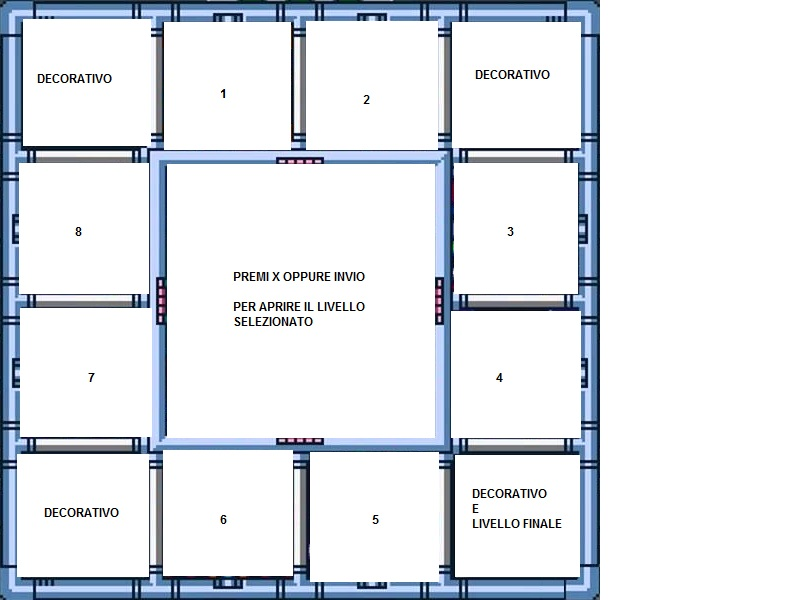
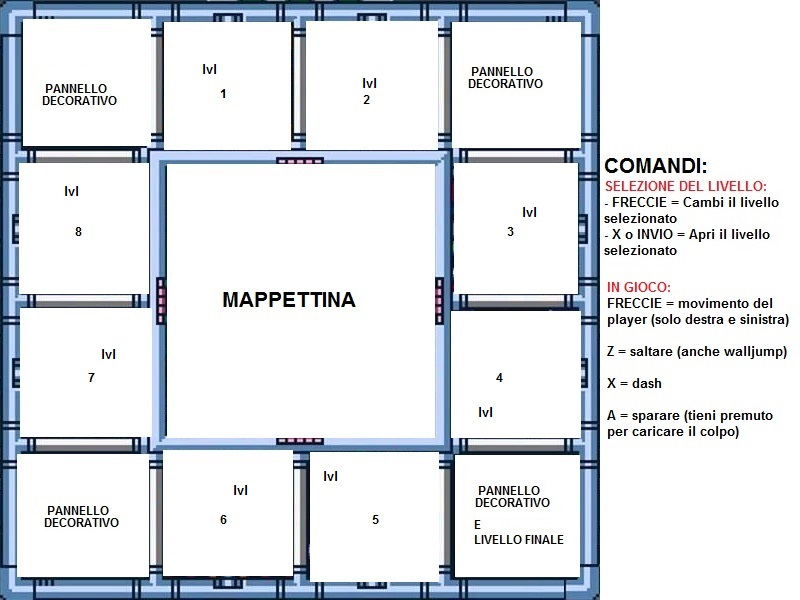
Add files via upload

diff --git a/simpleX.js b/simpleX.js
@@ -12,7 +12,8 @@
             }
           }
       }
-      if (scala < 1){alert("Your screen is too small... Try to zoom out your browser page a little (Usually Ctrl and -)");}
+//      if (scala < 1){alert("Your screen is too small... Try to zoom out your browser page a little (Usually Ctrl and -)");}
+      if (scala < 1){scala=1;}
       var canvasWidth = widthRes*scala;
       var canvasHeight = heightRes*scala;
       if(document.getElementsByTagName('canvas').length == 0) {     //crea il canvas con le variabili che ho creato
@@ -20,7 +21,8 @@
       }   var ctx = document.getElementById('canvas').getContext('2d');
            
 	  //variabili dei tasti
-      var keys = [];
+      var keys = [];            //vettore tasti
+      var tastoGiaSchiacciato = false; //mi serve per alcune funzioni tipo selectScreen()
       var jumpkey = 90;         //salta - default z
       var destrakey = 39;       //muovi sinistra - default freccia destra
       var sinistrakey = 37;     //muovi destra - default freccia sinistra
@@ -57,7 +59,7 @@
         this.charge2color= '#14dfff';        
         this.speed= 0.9*scala;
         this.defaultspeed= 0.9*scala;
-        this.jumpheight= 10.5*scala;
+        this.jumpheight= 11.5*scala;
         this.giasaltato = false;
         this.giasparato = false;
         this.facingRight = true;
@@ -68,25 +70,25 @@
 
 			//caricare il livello
 			var level = []; //create the level array
-			var lvlNumber=0;
+			var lvlNumber=1;
       var stageSelection=true;			
 
       		//prendo lvlNumber e carico il livello scelto - sadly non ancora da file perchè siamo a corto di budget
 			function leggiLivelloDaFile() {	//funz che carica il livello scelto - i livello sono salvati come stringhe
 				switch (lvlNumber) {
-					case 0: stringToLevel("tttttttttttttttttttttttttttttttttttttttttttttttttttl..................................................l..................................................l..................................................l..................................................l......................................P...........l..................................................l..................................................l..................................................l..................................................l..................................................l..................................................l..................................................l..................................................l..................................................l..................................................l..................................................l..................................................l..................................................l..................................................l..................................................l..................................................l..................................................l..................................................l..................................................l..................................................l..............................P...................l....................................P.............l..................................................f");
+					case 1: stringToLevel("tttttttttttttttttttttttttttttttttttttttttttttttttttl..................................................l..................................................l..................................................l..................................................l......................................P...........l..................................................l..................................................l..................................................l..................................................l..................................................l..................................................l..................................................l..................................................l..................................................l..................................................l..................................................l..................................................l..................................................l..................................................l..................................................l..................................................l..................................................l..................................................l..................................................l..................................................l..............................P...................l....................................P.............l..................................................f");
 					break;
 
-					case 1: stringToLevel("tttttttttttttttttttttttttttttttttttttttttttttttttttttttttttl..........................................................l..........................................................l..bbbbbbb.................................................l..........................................................l..........................................................l..........................................................l..........................................................l..........................................................l..........................................................l..........................................................l..........................................................l..........................................................l..........................................................l..........................................................l..........................................................l..........................................................l..........................................................l..........................................................l..........................................................l..........................................................l..................................bbbbbbbbbb..............l..........................................................l..........................................................l..........................................................l..........................................................l....................bb....................................l................bb........................................l............bb............................................l........bb................................................l....bb....................................................f");
+					case 2: stringToLevel("tttttttttttttttttttttttttttttttttttttttttttttttttttttttttttl..........................................................l..........................................................l..bbbbbbb.................................................l..........................................................l..........................................................l..........................................................l..........................................................l..........................................................l..........................................................l..........................................................l..........................................................l..........................................................l..........................................................l..........................................................l..........................................................l..........................................................l..........................................................l..........................................................l..........................................................l..........................................................l..................................bbbbbbbbbb..............l..........................................................l..........................................................l..........................................................l..........................................................l....................bb....................................l................bb........................................l............bb............................................l........bb................................................l....bb....................................................f");
 					break;
 
-					case 2: stringToLevel("ttttttttttttttttttttttttttttttttttttttttttttttttttttttttttttttttttttttttttttttttttttttttttttttttttttttttttttttttttttttttttttttttttttttttttttttttttttttttttttttttttttttttttttttttttttttttttttttttttttttttttttttttttttl...................................................................................................................................................................................................................l...................................................................................................................................................................................................................l...b...b.bbb.bbb.b.bbb...bbb.bbb.bbb.bbb...b...b.bbb.bbb...bbb...b.....bbb...b.....................................................................................................................................l...bb.bb.b.b.b.b.b.b.b...b.b.b.b.b.b.b.....bb..b.b...b.....b.b..bb.....b.b..bb.....................................................................................................................................l...b.b.b.bbb.bbb.b.b.b...bb..bbb.b.b.bbb...b.b.b.bbb.bbb...b.b.b.b.b.b.b.b.b.b.....................................................................................................................................l...b...b.b.b.bb..b.b.b...b.b.bb..b.b...b...b..bb.b.....b...b.b...b..b..b.b...b.....................................................................................................................................l...b...b.b.b.b.b.b.bbb...bbb.b.b.bbb.bbb...b...b.bbb.bbb...bbb...b.b.b.bbb...b.....................................................................................................................................l...................................................................................................................................................................................................................l...................................................................................................................................................................................................................l...................................................................................................................................................................................................................l.........................................................................................................................................................................................................b.........l.........................................................................................................................................................................................................b.........l.........................................................................................................................................................................................................b.........l................................................................................................................................................................................................bb.......b.........l...............................................................................................................................................................................................bbb.......b.........l......................b.........................................................bbbbbbbb...bbbb................b............bbb....bbbb.......................................................bbbb.......b.........l.............................................................................................................................................................................................bbbbb.......b...b.b.b.l..............................................bb.........bb.................................................................................b..b..........bb..b.............................bbbbbb.......b...bbbbb.l...............b....bbbbb.............bb......bb.........bb..................bbb..............b......bb.....b..b..b.....b...........bb.....bb..bb........bbb..bb...........bbbb............bbbbbbb.......b...bbbbb.l............................bb........bb......bb.........bb...............................................................................bbb..bbb......bbbb..bbb.....bb..............bb..bbbbbbbb.......b...bb.bb.l............................bb........bb......bb.........bb..............................................................................bbbb..bbbb....bbbbb..bbbb....bb..............bb.bbbbbbbbb......bbb..bb.bb.lbbbbbbbbbbbbbbbbbbbbbbbbbbbbbbbbbbbbbbbbbbbbbbbbbbbbbbbbbbbbbbbbbbbbb..bbbbbbbbbbbbbbb...bbbbbbbbbbbbbbbbbbbbbbbbbbbbbbbbbbbbbbbbbbbbbbbbbbbbbbbbbbbbbbbbbbb..bbbbbbbbbbbbbbbbbbbbbbbbbbbbbbbbbbbbbbbbbbbbbbbbbbbbblbbbbbbbbbbbbbbbbbbbbbbbbbbbbbbbbbbbbbbbbbbbbbbbbbbbbbbbbbbbbbbbbbbbbb..bbbbbbbbbbbbbbb...bbbbbbbbbbbbbbbbbbbbbbbbbbbbbbbbbbbbbbbbbbbbbbbbbbbbbbbbbbbbbbbbbbb..bbbbbbbbbbbbbbbbbbbbbbbbbbbbbbbbbbbbbbbbbbbbbbbbbbbbblbbbbbbbbbbbbbbbbbbbbbbbbbbbbbbbbbbbbbbbbbbbbbbbbbbbbbbbbbbbbbbbbbbbbb..bbbbbbbbbbbbbbb...bbbbbbbbbbbbbbbbbbbbbbbbbbbbbbbbbbbbbbbbbbbbbbbbbbbbbbbbbbbbbbbbbbb..bbbbbbbbbbbbbbbbbbbbbbbbbbbbbbbbbbbbbbbbbbbbbbbbbbbbblbbbbbbbbbbbbbbbbbbbbbbbbbbbbbbbbbbbbbbbbbbbbbbbbbbbbbbbbbbbbbbbbbbbbb..bbbbbbbbbbbbbbb...bbbbbbbbbbbbbbbbbbbbbbbbbbbbbbbbbbbbbbbbbbbbbbbbbbbbbbbbbbbbbbbbbbb..bbbbbbbbbbbbbbbbbbbbbbbbbbbbbbbbbbbbbbbbbbbbbbbbbbbbblbbbbbbbbbbbbbbbbbbbbbbbbbbbbbbbbbbbbbbbbbbbbbbbbbbbbbbbbbbbbbbbbbbbbb..bbbbbbbbbbbbbbb...bbbbbbbbbbbbbbbbbbbbbbbbbbbbbbbbbbbbbbbbbbbbbbbbbbbbbbbbbbbbbbbbbbb..bbbbbbbbbbbbbbbbbbbbbbbbbbbbbbbbbbbbbbbbbbbbbbbbbbbbblbbbbbbbbbbbbbbbbbbbbbbbbbbbbbbbbbbbbbbbbbbbbbbbbbbbbbbbbbbbbbbbbbbbbb..bbbbbbbbbbbbbbb...bbbbbbbbbbbbbbbbbbbbbbbbbbbbbbbbbbbbbbbbbbbbbbbbbbbbbbbbbbbbbbbbbbb..bbbbbbbbbbbbbbbbbbbbbbbbbbbbbbbbbbbbbbbbbbbbbbbbbbbbblbbbbbbbbbbbbbbbbbbbbbbbbbbbbbbbbbbbbbbbbbbbbbbbbbbbbbbbbbbbbbbbbbbbbb..bbbbbbbbbbbbbbb...bbbbbbbbbbbbbbbbbbbbbbbbbbbbbbbbbbbbbbbbbbbbbbbbbbbbbbbbbbbbbbbbbbb..bbbbbbbbbbbbbbbbbbbbbbbbbbbbbbbbbbbbbbbbbbbbbbbbbbbbbf");
+					case 3: stringToLevel("ttttttttttttttttttttttttttttttttttttttttttttttttttttttttttttttttttttttttttttttttttttttttttttttttttttttttttttttttttttttttttttttttttttttttttttttttttttttttttttttttttttttttttttttttttttttttttttttttttttttttttttttttttttl...................................................................................................................................................................................................................l...................................................................................................................................................................................................................l...b...b.bbb.bbb.b.bbb...bbb.bbb.bbb.bbb...b...b.bbb.bbb...bbb...b.....bbb...b.....................................................................................................................................l...bb.bb.b.b.b.b.b.b.b...b.b.b.b.b.b.b.....bb..b.b...b.....b.b..bb.....b.b..bb.....................................................................................................................................l...b.b.b.bbb.bbb.b.b.b...bb..bbb.b.b.bbb...b.b.b.bbb.bbb...b.b.b.b.b.b.b.b.b.b.....................................................................................................................................l...b...b.b.b.bb..b.b.b...b.b.bb..b.b...b...b..bb.b.....b...b.b...b..b..b.b...b.....................................................................................................................................l...b...b.b.b.b.b.b.bbb...bbb.b.b.bbb.bbb...b...b.bbb.bbb...bbb...b.b.b.bbb...b.....................................................................................................................................l...................................................................................................................................................................................................................l...................................................................................................................................................................................................................l...................................................................................................................................................................................................................l.........................................................................................................................................................................................................b.........l.........................................................................................................................................................................................................b.........l.........................................................................................................................................................................................................b.........l................................................................................................................................................................................................bb.......b.........l...............................................................................................................................................................................................bbb.......b.........l......................b.........................................................bbbbbbbb...bbbb................b............bbb....bbbb.......................................................bbbb.......b.........l.............................................................................................................................................................................................bbbbb.......b...b.b.b.l..............................................bb.........bb.................................................................................b..b..........bb..b.............................bbbbbb.......b...bbbbb.l...............b....bbbbb.............bb......bb.........bb..................bbb..............b......bb.....b..b..b.....b...........bb.....bb..bb........bbb..bb...........bbbb............bbbbbbb.......b...bbbbb.l............................bb........bb......bb.........bb...............................................................................bbb..bbb......bbbb..bbb.....bb..............bb..bbbbbbbb.......b...bb.bb.l............................bb........bb......bb.........bb..............................................................................bbbb..bbbb....bbbbb..bbbb....bb..............bb.bbbbbbbbb......bbb..bb.bb.lbbbbbbbbbbbbbbbbbbbbbbbbbbbbbbbbbbbbbbbbbbbbbbbbbbbbbbbbbbbbbbbbbbbbb..bbbbbbbbbbbbbbb...bbbbbbbbbbbbbbbbbbbbbbbbbbbbbbbbbbbbbbbbbbbbbbbbbbbbbbbbbbbbbbbbbbb..bbbbbbbbbbbbbbbbbbbbbbbbbbbbbbbbbbbbbbbbbbbbbbbbbbbbblbbbbbbbbbbbbbbbbbbbbbbbbbbbbbbbbbbbbbbbbbbbbbbbbbbbbbbbbbbbbbbbbbbbbb..bbbbbbbbbbbbbbb...bbbbbbbbbbbbbbbbbbbbbbbbbbbbbbbbbbbbbbbbbbbbbbbbbbbbbbbbbbbbbbbbbbb..bbbbbbbbbbbbbbbbbbbbbbbbbbbbbbbbbbbbbbbbbbbbbbbbbbbbblbbbbbbbbbbbbbbbbbbbbbbbbbbbbbbbbbbbbbbbbbbbbbbbbbbbbbbbbbbbbbbbbbbbbb..bbbbbbbbbbbbbbb...bbbbbbbbbbbbbbbbbbbbbbbbbbbbbbbbbbbbbbbbbbbbbbbbbbbbbbbbbbbbbbbbbbb..bbbbbbbbbbbbbbbbbbbbbbbbbbbbbbbbbbbbbbbbbbbbbbbbbbbbblbbbbbbbbbbbbbbbbbbbbbbbbbbbbbbbbbbbbbbbbbbbbbbbbbbbbbbbbbbbbbbbbbbbbb..bbbbbbbbbbbbbbb...bbbbbbbbbbbbbbbbbbbbbbbbbbbbbbbbbbbbbbbbbbbbbbbbbbbbbbbbbbbbbbbbbbb..bbbbbbbbbbbbbbbbbbbbbbbbbbbbbbbbbbbbbbbbbbbbbbbbbbbbblbbbbbbbbbbbbbbbbbbbbbbbbbbbbbbbbbbbbbbbbbbbbbbbbbbbbbbbbbbbbbbbbbbbbb..bbbbbbbbbbbbbbb...bbbbbbbbbbbbbbbbbbbbbbbbbbbbbbbbbbbbbbbbbbbbbbbbbbbbbbbbbbbbbbbbbbb..bbbbbbbbbbbbbbbbbbbbbbbbbbbbbbbbbbbbbbbbbbbbbbbbbbbbblbbbbbbbbbbbbbbbbbbbbbbbbbbbbbbbbbbbbbbbbbbbbbbbbbbbbbbbbbbbbbbbbbbbbb..bbbbbbbbbbbbbbb...bbbbbbbbbbbbbbbbbbbbbbbbbbbbbbbbbbbbbbbbbbbbbbbbbbbbbbbbbbbbbbbbbbb..bbbbbbbbbbbbbbbbbbbbbbbbbbbbbbbbbbbbbbbbbbbbbbbbbbbbblbbbbbbbbbbbbbbbbbbbbbbbbbbbbbbbbbbbbbbbbbbbbbbbbbbbbbbbbbbbbbbbbbbbbb..bbbbbbbbbbbbbbb...bbbbbbbbbbbbbbbbbbbbbbbbbbbbbbbbbbbbbbbbbbbbbbbbbbbbbbbbbbbbbbbbbbb..bbbbbbbbbbbbbbbbbbbbbbbbbbbbbbbbbbbbbbbbbbbbbbbbbbbbbf");
 					break;
 										
 					default:
-					alert("Errore nel caricamento del livello - Carico level 0")
-					lvlNumber=0;
-					leggiLivelloDaFile() 
+					alert("Errore nel caricamento del livello - carico il level 1")
+					lvlNumber=1;
+					leggiLivelloDaFile();
 				}
 				return
 			}
@@ -150,7 +152,7 @@
         
         		//qui carico delle cose io ma saranno dati contenuti nei vari livelli, dopo il carattere 'f'        
 				level['gravity'] = 0.62*scala;
-        		level['friction'] = 0.85;
+        level['friction'] = 0.85;
 				level['xStartingPos']=50*scala;
 				level['yStartingPos']=280*scala;
 
@@ -300,7 +302,7 @@
         }              
       }
       
-			//bottone per scegli il livello
+/*
 			const buttonLvl0 = document.createElement('button')
 			buttonLvl0.innerText = 'level--'
 			buttonLvl0.addEventListener('click', () => {
@@ -315,7 +317,7 @@
 			})
 			document.body.appendChild(buttonLvl0)
 			document.body.appendChild(buttonLvl1)
-			
+*/			
       //start the engine
       window.onload = start;
             
@@ -537,12 +539,12 @@
             player.carica++;
             if (player.carica > 100){ //disegna i pallini del colore della carica intorno al player
               var xdisegnata=xDisegnata(); var ydisegnata=yDisegnata();
-              var xrandom=((-player.width/4)-4+Math.floor(Math.random() * (player.width/2)))*scala; var yrandom=((-player.height/4)-4+Math.floor(Math.random() * (player.height/2)))*scala;
+              var xrandom=((-player.width/4)+Math.floor(Math.random() * (player.width/2)))*3; var yrandom=((-player.height/4)+Math.floor(Math.random() * (player.height/2)))*2;
               ctx.fillStyle = player.charge0color;
         	  ctx.fillRect(xdisegnata+(player.width/2)+xrandom, ydisegnata+(player.height/2)+yrandom, 8*scala, 8*scala);
             }else if(player.carica > 25){
               var xdisegnata=xDisegnata(); var ydisegnata=yDisegnata();
-              var xrandom=((-player.width/4)-4+Math.floor(Math.random() * (player.width/2)))*scala; var yrandom=((-player.height/4)-4+Math.floor(Math.random() * (player.height/2)))*scala;
+              var xrandom=((-player.width/4)+Math.floor(Math.random() * (player.width/2)))*3; var yrandom=((-player.height/4)+Math.floor(Math.random() * (player.height/2)))*2;
               ctx.fillStyle = player.charge1color;
         	  ctx.fillRect(xdisegnata+(player.width/2)+xrandom, ydisegnata+(player.height/2)+yrandom, 8*scala, 8*scala);
             }   
@@ -616,14 +618,14 @@
 
         //entity collison
         if (player.invulnerability < 1){
-			for(var i = 0; i < entity.length; i++) {
-				if(entity[i].life > 0 && !(entity[i].type=="sparoDelPlayer")) {
-          			if(collisionBetween(player, entity[i])) {
-						player.color=player.damagedColor;
-						player.life=player.life-entity[i].damage;
-						player.invulnerability=50;
-						break;
-            		}
+			    for(var i = 0; i < entity.length; i++) {
+				    if(entity[i].life > 0 && !(entity[i].type=="sparoDelPlayer")) {
+              if(collisionBetween(player, entity[i])) {
+						    player.color=player.damagedColor;
+						    player.life=player.life-entity[i].damage;
+						    player.invulnerability=50;
+						    break;
+            	}
         		}
         	}
        	}else{
@@ -660,24 +662,104 @@
       function stageSelect(){
           var img = document.getElementById("stageselect");
           ctx.drawImage(img, 0, 0, canvasWidth,canvasHeight);
+            //leggo che tasto viene schiacciato. Con invio o dash si inizia a giocare, con le freccie si cicla tra i livelli
             if (keys[startkey] || keys[dashkey]){
               stageSelection=false;
               nuovoLivello();
             }
-            if (keys[sukey]){
-              showSelectScreenImage(img);
+            if (keys[sukey] && !tastoGiaSchiacciato){
+             if(lvlNumber==4){lvlNumber=3; 
+             }else if(lvlNumber==5){lvlNumber=2;
+             }else if(lvlNumber==6){lvlNumber=1;
+             }else if(lvlNumber==7){lvlNumber=8;
+             }else if(lvlNumber==3){lvlNumber=2;
+             }else if(lvlNumber==8){lvlNumber=1;}             
             }
-            if (keys[giukey]){
-              showSelectScreenImage(img);          
+            if (keys[giukey] && !tastoGiaSchiacciato){
+             if(lvlNumber==1){lvlNumber=6;
+             }else if(lvlNumber==2){lvlNumber=5;
+             }else if(lvlNumber==3){lvlNumber=4;
+             }else if(lvlNumber==8){lvlNumber=7;
+             }else if(lvlNumber==7){lvlNumber=6;
+             }else if(lvlNumber==4){lvlNumber=5;}                      
             }
-            if (keys[sinistrakey]){
-              showSelectScreenImage(img);            
+            if (keys[sinistrakey] && !tastoGiaSchiacciato){
+             if(lvlNumber==2){lvlNumber=1;
+             }else if(lvlNumber==3){lvlNumber=8;
+             }else if(lvlNumber==4){lvlNumber=7;
+             }else if(lvlNumber==5){lvlNumber=6;
+             }else if(lvlNumber==1){lvlNumber=8;
+             }else if(lvlNumber==6){lvlNumber=7;}                 
             }
-            if (keys[destrakey]){
-              showSelectScreenImage(img);           
+            if (keys[destrakey] && !tastoGiaSchiacciato){
+             if(lvlNumber==1){lvlNumber=2;
+             }else if(lvlNumber==2){lvlNumber=3;
+             }else if(lvlNumber==5){lvlNumber=4;
+             }else if(lvlNumber==6){lvlNumber=5;
+             }else if(lvlNumber==7){lvlNumber=4;
+             }else if(lvlNumber==8){lvlNumber=3;} 
+            }            
+            if(keys[destrakey] || keys[sinistrakey] || keys[giukey] || keys[sukey]){ //serve per evitare che in un attimo ti sposti di un bordello di livelli 
+                   tastoGiaSchiacciato=true;
+            }else{ tastoGiaSchiacciato=false;}
+            
+            //ora disegno un quadrato intorno al livello selezionato
+            ctx.fillStyle = player.charge0color;
+            switch (lvlNumber){
+              case 1:
+                ctx.fillRect( (9+128)*scala, (10)*scala, 135*scala, 10*scala );
+                ctx.fillRect( (9+128)*scala, (10)*scala, 10*scala, 135*scala );
+                ctx.fillRect( (9+128)*scala, (135)*scala, 135*scala, 10*scala );
+                ctx.fillRect( (135+128)*scala, (10)*scala, 10*scala, 135*scala );
+                break;
+                
+              case 2:
+                ctx.fillRect( (9+256)*scala, (10)*scala, 135*scala, 10*scala );
+                ctx.fillRect( (9+256)*scala, (10)*scala, 10*scala, 135*scala );
+                ctx.fillRect( (9+256)*scala, (135)*scala, 135*scala, 10*scala );
+                ctx.fillRect( (135+256)*scala, (10)*scala, 10*scala, 135*scala );
+                break;
+                
+              case 3:
+                ctx.fillRect( (9+386)*scala, (10+130)*scala, 135*scala, 10*scala );
+                ctx.fillRect( (9+386)*scala, (10+130)*scala, 10*scala, 135*scala );
+                ctx.fillRect( (9+386)*scala, (135+130)*scala, 135*scala, 10*scala );
+                ctx.fillRect( (135+386)*scala, (10+130)*scala, 10*scala, 135*scala );              
+                break;
+                
+              case 4:
+                ctx.fillRect( (9+386)*scala, (10+260)*scala, 135*scala, 10*scala );
+                ctx.fillRect( (9+386)*scala, (10+260)*scala, 10*scala, 135*scala );
+                ctx.fillRect( (9+386)*scala, (135+260)*scala, 135*scala, 10*scala );
+                ctx.fillRect( (135+386)*scala, (10+260)*scala, 10*scala, 135*scala );               
+                break;
+                
+              case 5:
+                ctx.fillRect( (9+256)*scala, (10+386)*scala, 135*scala, 10*scala );
+                ctx.fillRect( (9+256)*scala, (10+386)*scala, 10*scala, 135*scala );
+                ctx.fillRect( (9+256)*scala, (135+386)*scala, 135*scala, 10*scala );
+                ctx.fillRect( (135+256)*scala, (10+386)*scala, 10*scala, 135*scala );            
+                break;
+                
+              case 6:
+                ctx.fillRect( (9+128)*scala, (10+386)*scala, 135*scala, 10*scala );
+                ctx.fillRect( (9+128)*scala, (10+386)*scala, 10*scala, 135*scala );
+                ctx.fillRect( (9+128)*scala, (135+386)*scala, 135*scala, 10*scala );
+                ctx.fillRect( (135+128)*scala, (10+386)*scala, 10*scala, 135*scala );                
+                break;
+                
+              case 7:
+                ctx.fillRect( (9)*scala, (10+260)*scala, 135*scala, 10*scala );
+                ctx.fillRect( (9)*scala, (10+260)*scala, 10*scala, 135*scala );
+                ctx.fillRect( (9)*scala, (135+260)*scala, 135*scala, 10*scala );
+                ctx.fillRect( (135)*scala, (10+260)*scala, 10*scala, 135*scala );              
+                break;
+                
+              case 8:
+                ctx.fillRect( (9)*scala, (10+130)*scala, 135*scala, 10*scala );
+                ctx.fillRect( (9)*scala, (10+130)*scala, 10*scala, 135*scala );
+                ctx.fillRect( (9)*scala, (135+130)*scala, 135*scala, 10*scala );
+                ctx.fillRect( (135)*scala, (10+130)*scala, 10*scala, 135*scala );               
+                break;                                                                                                                
             }
       } 
-      function showSelectScreenImage(img){
-              ctx.clearRect(0, 0, canvas.width, canvas.height);	//pulisci tutto il canvas
-              ctx.drawImage(img, 0, 0, canvasWidth,canvasHeight);
-      }

diff --git a/simpleX.html b/simpleX.html
@@ -2,15 +2,7 @@
 <html>
 <body>
 <title>Simple X Js</title>
-<script src = "simpleX.js"> </script> <!--Questo avvia lo script di gioco -->
-<br>This is <b>Simple X Js</b>, a project that aim to write a simple MegaManX styled game in javascript.<br>
-The feature implemented for now are Jumping, Dashing, Wall Jumps and camera handling (when X move close to a border)<br>
-For reference here you can watch the features I'll try to recreate with but with a simple graphic style: <a href="https://youtu.be/NHd8Z37Zv04">Megaman X gameplay on youtube</a><br>
-<br>Buttons:</b><br>
-<b>arrow keys</b> to move left and right<br>
-<b>z</b> to jump - you can even walljump<br>
-<b>x</b> to dash<br>
-<b>a</b> to shoot - keep pressed to charge
-<img id='stageselect' src='stageselect.jpg'   width=0%></img>
+<script src = "simpleX.js"> </script> <!--Questo avvia lo script di gioco-->
+<img id='stageselect' src='stageselect.jpg' width=0%></img> <!--Prende l'immagine e la nasconde, ci pensera' il canvas del .js a usarla. Per avere un'esperienza piu' realistica si puo' ritagliare lo stage select screen di mmx1 e ingrandirlo a 600x600. Poi estendi l'immagine lasciando il bordo bianco a 800x600 e la rinomini stageselect.jpg. La metti nella cartella di gioco e enjoy :D  -->
 </body>
 </html>
